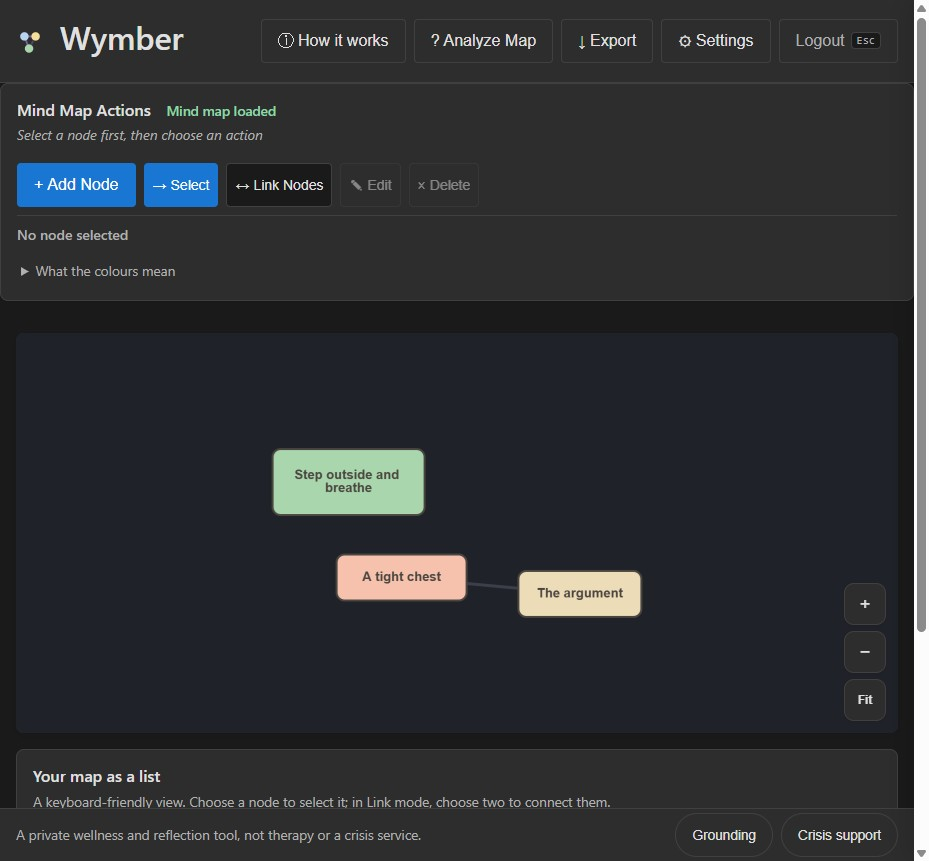
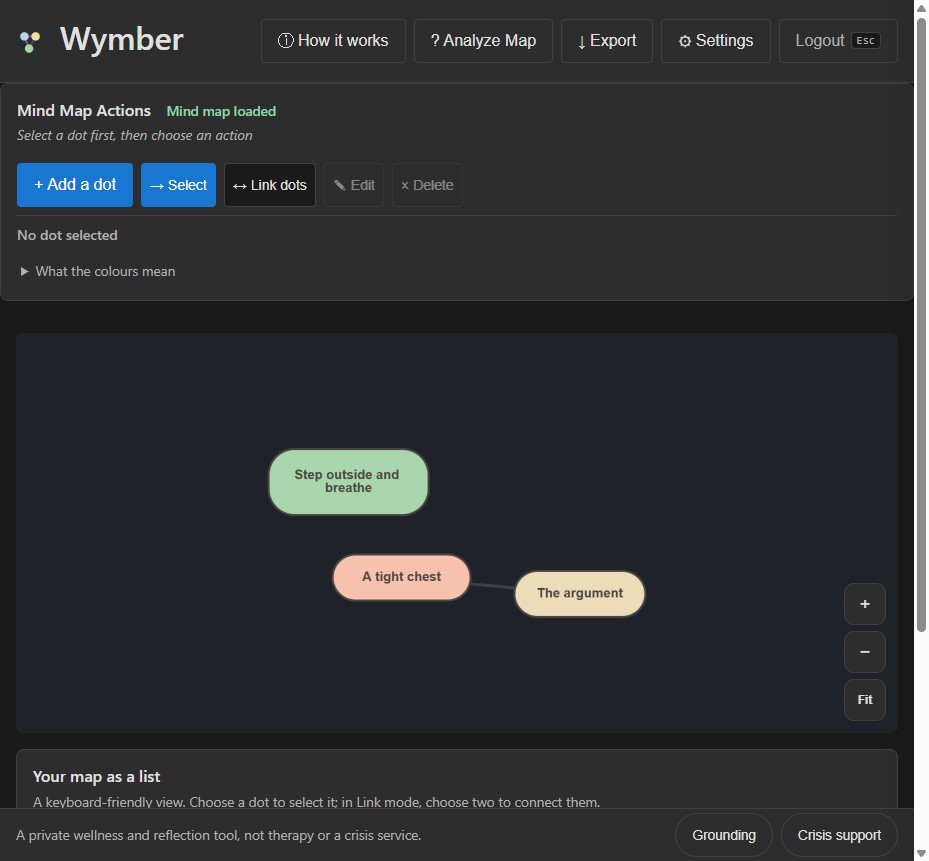
Dots look like dots: pill-rounded map shapes, matching hero + tutorial art, fresh shots
A one-line dot is now a full pill (corner-radius mapped per dot, capped on taller ones so they
soften into lozenges), with a little extra width so text clears the rounded ends. The landing
hero and the walkthrough art take the same pill shape, same layout, just rounder. Both carousel
screenshot sets re-shot.

diff --git a/frontend/js/mindmap.js b/frontend/js/mindmap.js
@@ -45,9 +45,12 @@ function layoutLabel(label) {
     // to clip long titles vertically).
     const lineCount = lines.reduce((n, l) => n + Math.max(1, Math.ceil(l.length / MAX)), 0);
     const longest = lines.reduce((m, l) => Math.max(m, Math.min(l.length, MAX)), 1);
-    const w = Math.min(Math.max(Math.round(longest * 7.4) + 34, 84), 210);
+    // A little extra width so text clears the rounded ends (they're dots: a one-line dot is a
+    // full pill; taller ones soften toward a lozenge with the radius capped).
+    const w = Math.min(Math.max(Math.round(longest * 7.4) + 42, 90), 216);
     const h = Math.min(lineCount, 8) * 20 + 26;
-    return { w, h, tw: w - 28 };
+    const r = Math.min(Math.round(h / 2), 26);
+    return { w, h, r, tw: w - 36 };
 }
 
 // Lazy-load the (~424KB) Cytoscape bundle only when the map first opens, so the auth/unlock
@@ -118,6 +121,7 @@ export class TrauMindMap {
                 selector: 'node',
                 style: {
                     'shape': 'round-rectangle',
+                    'corner-radius': 'data(r)',
                     'background-color': 'data(color)',
                     'background-opacity': 1,
                     'border-width': 2,
@@ -197,7 +201,7 @@ export class TrauMindMap {
                 group: 'nodes',
                 data: {
                     id: String(n.id), label: n.title, color: typeColor(n.node_type), ntype: n.node_type,
-                    w: size.w, h: size.h, tw: size.tw,
+                    w: size.w, h: size.h, r: size.r, tw: size.tw,
                 },
                 position,
             });

diff --git a/landing/index.html b/landing/index.html
@@ -63,11 +63,11 @@
           <!-- a suggested (dashed) link -->
           <line x1="285" y1="180" x2="330" y2="95"  class="edge edge-suggested"/>
           <!-- nodes -->
-          <g class="node"><rect x="50"  y="48"  width="90" height="44" rx="14" fill="#EDDCB8"/></g>
-          <g class="node"><rect x="168" y="33"  width="84" height="44" rx="14" fill="#F5DD9A"/></g>
-          <g class="node"><rect x="288" y="73"  width="84" height="44" rx="14" fill="#B7D5F0"/></g>
-          <g class="node"><rect x="108" y="143" width="84" height="44" rx="14" fill="#E3BBE9"/></g>
-          <g class="node"><rect x="243" y="158" width="84" height="44" rx="14" fill="#D8ECB4"/></g>
+          <g class="node"><rect x="50"  y="48"  width="90" height="44" rx="22" fill="#EDDCB8"/></g>
+          <g class="node"><rect x="168" y="33"  width="84" height="44" rx="22" fill="#F5DD9A"/></g>
+          <g class="node"><rect x="288" y="73"  width="84" height="44" rx="22" fill="#B7D5F0"/></g>
+          <g class="node"><rect x="108" y="143" width="84" height="44" rx="22" fill="#E3BBE9"/></g>
+          <g class="node"><rect x="243" y="158" width="84" height="44" rx="22" fill="#D8ECB4"/></g>
         </svg>
       </div>
     </section>

diff --git a/frontend/js/tutorial.js b/frontend/js/tutorial.js
@@ -8,7 +8,7 @@
  */
 
 const SVG = (inner) => `<svg viewBox="0 0 140 96" width="140" height="96" role="img">${inner}</svg>`;
-const NODE = (x, y, fill) => `<rect x="${x}" y="${y}" width="34" height="22" rx="7" fill="${fill}"/>`;
+const NODE = (x, y, fill) => `<rect x="${x}" y="${y}" width="34" height="22" rx="11" fill="${fill}"/>`;
 const LINE = (x1, y1, x2, y2) => `<line x1="${x1}" y1="${y1}" x2="${x2}" y2="${y2}" stroke="#cfc7ba" stroke-width="2.5" stroke-linecap="round"/>`;
 
 // Soft pastels echoing the node palette; calm, not clinical.

diff --git a/frontend/sw.js b/frontend/sw.js
@@ -9,7 +9,7 @@
  * VERSION is derived from a content hash of the cached shell by scripts/sw-version.mjs (run in
  * the pre-commit hook), so it bumps automatically when the shell changes. Don't hand-edit it.
  */
-const VERSION = 'wymber-shell-d8f9a986205c';
+const VERSION = 'wymber-shell-2d9fcaac47bf';
 
 const CORE = [
     '/',
